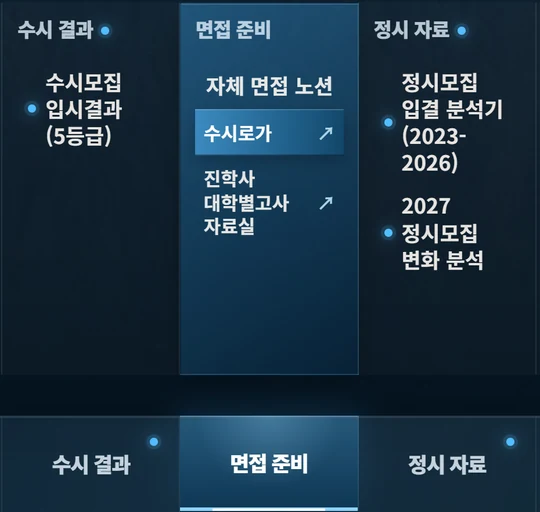
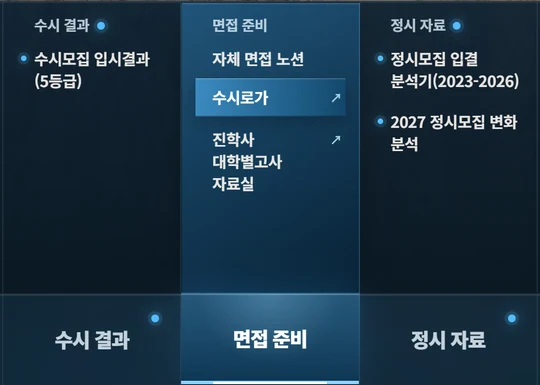
Align desktop submenu tracks and soften action button sheen

diff --git a/index.html b/index.html
@@ -30,7 +30,7 @@
   <meta name="twitter:title" content="진학 인사이트">
   <meta name="twitter:description" content="입시 정보와 진학 도구를 한곳에서 확인하세요.">
   <meta name="twitter:image" content="https://seiryu1318.github.io/Ergosphere_Ryan/og-preview-20260827-05.jpg">
-  <title>라이언의 대입 포털 ver.20261127 - 06</title>
+  <title>라이언의 대입 포털 ver.20261127 - 07</title>
   <script>
     const tabletViewKey = "ryan-portal-tablet-view";
     const manualViewKey = "ryan-portal-manual-view";
@@ -2830,16 +2830,15 @@
       transform: scaleX(1);
     }
     .category-mega {
-      --category-launcher-left: 0px;
-      --category-launcher-width: 100%;
       position: absolute;
       right: 0;
       bottom: 100%;
       left: 0;
       z-index: 1;
-      padding: clamp(22px, 3.1vh, 36px) 0 clamp(24px, 3.6vh, 42px);
+      padding: 0;
       max-height: calc(100svh - 100% - var(--tablet-header-height, 70px) - 4px);
-      overflow: auto;
+      overflow: hidden auto;
+      scrollbar-width: none;
       overscroll-behavior: contain;
       border-top: 1px solid rgba(255,255,255,.16);
       border-bottom: 1px solid rgba(255,255,255,.12);
@@ -2848,33 +2847,21 @@
       box-shadow: 0 -26px 68px rgba(0,0,0,.28), inset 0 1px rgba(255,255,255,.055);
       opacity: 0;
       visibility: hidden;
-      transform: translateY(28px);
-      transform-origin: bottom;
-      transition: opacity .26s ease, transform .38s cubic-bezier(.22,.8,.28,1), visibility 0s linear .38s;
+      transition: opacity .22s ease, visibility 0s linear .22s;
       pointer-events: none;
     }
     body.mode-pc .bottom-nav.is-mega-open .category-mega {
       opacity: 1;
       visibility: visible;
-      transform: none;
       transition-delay: 0s;
       pointer-events: auto;
     }
-    .category-mega-grid {
-      display: block;
-      width: 100%;
-      margin: 0;
-    }
-    .category-mega-spacer {
-      display: none;
-    }
+    .category-mega::-webkit-scrollbar { display: none; }
     .category-columns {
       display: grid;
       grid-template-columns: var(--category-tracks);
       gap: 0;
-      width: var(--category-launcher-width);
       min-width: 0;
-      margin-left: var(--category-launcher-left);
     }
     .category-column {
       min-width: 0;
@@ -2896,11 +2883,11 @@
       transform: none;
     }
     .category-column h2 {
-      min-height: 32px;
-      margin: 0 0 7px;
+      margin: 0 0 4px;
+      padding-inline: 15px 3px;
       color: rgba(255,247,237,.64);
-      font-size: clamp(13px, 1.02vw, 16px);
-      font-weight: 850;
+      font-size: 13px;
+      font-weight: 750;
       line-height: 1.35;
       letter-spacing: -.025em;
       word-break: keep-all;
@@ -2913,35 +2900,25 @@
       list-style: none;
     }
     body.mode-pc .bottom-nav .category-project-link {
-      display: flex;
-      align-items: center;
-      justify-content: flex-start;
-      gap: 0;
+      position: relative;
+      display: block;
       width: 100%;
       min-width: 0;
-      min-height: 36px;
-      padding: 6px 9px;
+      min-height: 34px;
+      padding: 7px 3px 7px 15px;
       border: 0;
       border-radius: 7px;
       color: rgba(255,250,244,.9);
       background: transparent;
       box-shadow: none;
-      font-size: clamp(12px, .88vw, 14px);
-      font-weight: 730;
-      line-height: 1.28;
+      font-family: inherit;
+      font-size: 14px;
+      font-weight: 700;
+      line-height: 1.45;
+      letter-spacing: -.02em;
       text-align: left;
       word-break: keep-all;
       transition: color .18s ease, background .18s ease, border-color .18s ease, box-shadow .18s ease, transform .18s ease;
-    }
-    body.mode-pc .bottom-nav .category-project-link.is-update {
-      display: block;
-    }
-    body.mode-pc .bottom-nav .category-project-link.is-update::before {
-      display: inline-block;
-      margin-right: 6px;
-      font-size: 7px;
-      opacity: .88;
-      vertical-align: .12em;
     }
     body.mode-pc .bottom-nav .category-project-link:hover,
     body.mode-pc .bottom-nav .category-project-link:focus-visible {
@@ -3348,10 +3325,6 @@
         grid-row: 2;
       }
       .category-trigger { min-height: 42px; }
-      .category-mega {
-        padding: 16px 0 18px;
-      }
-      .category-column h2 { min-height: 0; }
     }
     @media (max-width: 390px) {
       .mobile-menu-item.mobile-category-toggle {
@@ -3524,13 +3497,11 @@
       background: linear-gradient(145deg, rgba(48,126,181,.56), rgba(8,41,65,.62));
       box-shadow: inset 0 1px rgba(228,245,255,.16), 0 12px 30px rgba(0,0,0,.24);
     }
-    .category-column h2 { color: rgba(231,245,255,.78); font-size: clamp(14px, 1.05vw, 17px); }
+    .category-column h2 { color: rgba(231,245,255,.78); }
     body.mode-pc .bottom-nav .category-project-link {
-      min-height: 40px;
       border-radius: 0;
-      font-size: clamp(15px, 1.08vw, 18px);
       white-space: normal;
-      overflow-wrap: anywhere;
+      overflow-wrap: break-word;
     }
     body.mode-pc .bottom-nav .category-project-link:hover,
     body.mode-pc .bottom-nav .category-project-link:focus-visible {
@@ -3559,7 +3530,15 @@
       right: 12%;
       margin: 0;
     }
-    body.mode-pc .bottom-nav .category-project-link.has-work-change::before { flex: 0 0 auto; margin: 0 8px 0 0; }
+    body.mode-pc .bottom-nav .category-project-link.has-work-change::before {
+      position: absolute;
+      inset-inline-start: 3px;
+      top: calc(7px + .725em);
+      width: 5px;
+      height: 5px;
+      margin: 0;
+      transform: translateY(-50%);
+    }
     .category-trigger.is-update::before,
     body.mode-pc .bottom-nav .category-project-link.is-update::before { content: none; }
 
@@ -3993,6 +3972,7 @@
         --help-track: minmax(144px, .92fr);
         --hub-track: clamp(178px, 13vw, 248px);
       }
+      body.mode-pc .bottom-nav :is(.category-launcher, .category-mega) { grid-column: 3 / 4; }
     }
     @media (min-width:761px) and (max-width:1750px) {
       body.mode-pc .bottom-nav {
@@ -4007,7 +3987,7 @@
       body.mode-pc .bottom-nav [data-qa="ai-hub"] { grid-area: hub; }
       body.mode-pc .bottom-nav .category-launcher { grid-area: groups; }
       body.mode-pc .bottom-nav #scrollControl { grid-area: history; }
-      body.mode-pc .bottom-nav .category-mega { padding-bottom: 10px; }
+      body.mode-pc .bottom-nav .category-mega { grid-column: groups-start / groups-end; }
     }
     @media (max-width:1080px) {
       body.mode-pc .bottom-nav { --category-tracks: repeat(4, minmax(0, 1fr)); }
@@ -4018,12 +3998,19 @@
       .category-trigger.has-work-change::before { top: 4px; }
     }
     body.mode-pc .bottom-nav .category-reference-link {
-      justify-content: space-between;
-      gap: 6px;
-      padding-inline: 7px;
-      font-size: clamp(14px, .93vw, 16px);
+      padding-inline-end: 16px;
     }
-    .category-reference-link > span[aria-hidden] { color: #abd4e7; }
+    @media (min-width: 640px) {
+      .category-link-year { white-space: nowrap; }
+    }
+    .category-reference-link > span[aria-hidden] {
+      position: absolute;
+      inset-inline-end: 3px;
+      top: 7px;
+      color: #abd4e7;
+      font-size: 11px;
+      line-height: 20px;
+    }
     .tablet-device body.mode-pc .bottom-nav {
       padding-bottom: env(safe-area-inset-bottom, 0px);
     }
@@ -4032,7 +4019,6 @@
       .tablet-device body.mode-pc .bottom-nav :is(.nav-fixed, .category-trigger, .scroll-control) { min-height: 46px; }
     }
     @media (max-width: 1024px) {
-      .tablet-device body.mode-pc .category-mega { padding: 8px 0; }
       .tablet-device body.mode-pc .category-columns { grid-template-columns: minmax(0, 1fr); }
       .tablet-device body.mode-pc .category-column.is-active { grid-column: 1 / -1; }
       .tablet-device body.mode-pc .category-column:not(.is-active) { display: none; }
@@ -4152,15 +4138,16 @@
         z-index: -1;
         inset: 0 auto 0 0;
         width: 75%;
-        background: linear-gradient(106deg, transparent 4%, #a2dfef38 28%, #e3f7ff7a 44%, #fff8dc9c 51%, #dcf7ff70 59%, #a2dfef32 74%, transparent 96%);
+        background: linear-gradient(109deg, transparent 6%, #ccefff10 27%, #dff6ff50 49%, #dff6ff2a 63%, #ccefff0c 78%, transparent 94%);
         animation: action-sheen 2.6s ease-in-out infinite;
         animation-delay: var(--sheen-delay, 0s);
       }
       #viewToggle { --sheen-delay: -.32s; }
       .help-launch { --sheen-delay: -.65s; }
       @keyframes action-sheen {
-        0% { transform: translateX(-105%); }
-        60%, 100% { transform: translateX(140%); }
+        0% { opacity: 0; transform: translateX(-105%); }
+        22%, 38% { opacity: .85; }
+        60%, 100% { opacity: 0; transform: translateX(140%); }
       }
     }
     html.mode-mobile-root, body.mode-mobile { overscroll-behavior-y: none; }
@@ -4223,7 +4210,7 @@
[1 lines of base64/hex data omitted]
         <span class="brand-copy">
           <strong>라이언의 대입 포털</strong>
-          <span>ver.20261127 - 06</span>
+          <span>ver.20261127 - 07</span>
         </span>
       </a>
       <div class="header-actions">
@@ -4332,9 +4319,7 @@
           <button class="category-trigger" type="button" data-category="references" data-qa="desktop-category-trigger" aria-expanded="false" aria-controls="desktopCategoryMega">참고 사이트</button>
         </div>
         <section class="category-mega" id="desktopCategoryMega" aria-hidden="true" inert data-qa="desktop-category-popover">
-          <div class="category-mega-grid">
-            <div class="category-mega-spacer" aria-hidden="true"></div>
-            <div class="category-columns">
+          <div class="category-columns">
             <section class="category-column" data-category-column="common">
               <h2>입시 도구</h2>
               <ul>
@@ -4373,7 +4358,7 @@
             <section class="category-column" data-category-column="regular">
               <h2>정시 자료</h2>
               <ul>
-                <li><a class="category-project-link" href="https://seiryu1318.github.io/Regular_Ryan/" target="_blank" rel="noopener noreferrer" data-project="regular" data-qa="desktop-project-link">정시모집 입결 분석기(2023-2026)</a></li>
+                <li><a class="category-project-link" href="https://seiryu1318.github.io/Regular_Ryan/" target="_blank" rel="noopener noreferrer" data-project="regular" data-qa="desktop-project-link">정시모집 입결 분석기<wbr><span class="category-link-year">(2023-2026)</span></a></li>
                 <li><a class="category-project-link" href="https://seiryu1318.github.io/Regular_A_Ryan/" target="_blank" rel="noopener noreferrer" data-project="regular-a" data-qa="desktop-project-link">2027 정시모집 변화 분석</a></li>
               </ul>
             </section>
@@ -4400,8 +4385,6 @@
                 <li><a class="category-project-link category-reference-link" href="https://www.career.go.kr/cloud/w/major/uList" target="_blank" rel="noopener noreferrer">커리어넷 학과정보<span aria-hidden="true">↗</span></a></li>
               </ul>
             </section>
-            </div>
-            <div class="category-mega-spacer" aria-hidden="true"></div>
           </div>
         </section>
         <button class="scroll-control" id="scrollControl" type="button" aria-label="업데이트 내역으로 이동" aria-pressed="false" data-qa="roadmap-link">
@@ -4634,7 +4617,7 @@
             </li>
             <li>
               <p>펼쳐진 메뉴에서 <strong>자료 이름을 클릭</strong>하면 새 탭에서 열립니다.</p>
-              <img class="guide-shot" src="./assets/step-find-pc-2.webp?v=20261127-06" width="540" height="512" loading="lazy" decoding="async" alt="PC 면접 준비 메뉴를 펼치고 수시로가 링크를 가리킨 화면">
+              <img class="guide-shot" src="./assets/step-find-pc-2.webp?v=20261127-07" width="540" height="385" loading="lazy" decoding="async" alt="PC 면접 준비 버튼 바로 위에 펼친 목록과 수시로가 링크">
             </li>
             <li>
               <p>오른쪽 아래 <strong>업데이트 내역</strong>을 누르면 어떤 자료가 언제 바뀌었는지 볼 수 있습니다.</p>
@@ -4747,7 +4730,7 @@
 
       if ("serviceWorker" in navigator && supportsPwaInstall) {
         window.addEventListener("load", () => {
-          navigator.serviceWorker.register("./service-worker.js?v=20261127-06", {
+          navigator.serviceWorker.register("./service-worker.js?v=20261127-07", {
             scope: "./",
             updateViaCache: "none"
           }).then((registration) => registration.update()).catch(() => {});
@@ -5242,24 +5225,6 @@
       const categoryLauncher = categoryDock?.querySelector(".category-launcher");
       const categoryTriggers = [...document.querySelectorAll(".category-trigger")];
       const categoryColumns = [...document.querySelectorAll("[data-category-column]")];
-      let categoryAlignmentFrame = 0;
-
-      function syncDesktopCategoryAlignment() {
-        categoryAlignmentFrame = 0;
-        if (!categoryMega || !categoryLauncher) return;
-        const megaRect = categoryMega.getBoundingClientRect();
-        const launcherRect = categoryLauncher.getBoundingClientRect();
-        const dockRect = categoryDock.getBoundingClientRect();
-        const scaleX = categoryDock.offsetWidth ? dockRect.width / categoryDock.offsetWidth : 1;
-        if (!megaRect.width || !launcherRect.width || !scaleX) return;
-        categoryMega.style.setProperty("--category-launcher-left", ((launcherRect.left - megaRect.left) / scaleX).toFixed(3) + "px");
-        categoryMega.style.setProperty("--category-launcher-width", (launcherRect.width / scaleX).toFixed(3) + "px");
-      }
-
-      function queueDesktopCategoryAlignment() {
-        window.cancelAnimationFrame(categoryAlignmentFrame);
-        categoryAlignmentFrame = window.requestAnimationFrame(syncDesktopCategoryAlignment);
-      }
 
       function setActiveCategory(category) {
         categoryColumns.forEach((column) => {
@@ -5269,8 +5234,7 @@
 
       function setMegaOpen(open, trigger = activeCategoryTrigger) {
         if (!categoryDock || !categoryMega) return;
-        if (open) queueDesktopCategoryAlignment();
-        else pinnedCategoryTrigger = null;
+        if (!open) pinnedCategoryTrigger = null;
         activeCategoryTrigger = trigger || activeCategoryTrigger;
         categoryDock.classList.toggle("is-mega-open", open);
         categoryMega.setAttribute("aria-hidden", open ? "false" : "true");
@@ -5295,7 +5259,7 @@
       function focusFirstCategoryProject(trigger) {
         const firstLink = getCategoryProjectLinks(trigger?.dataset.category)[0];
         if (!firstLink) return;
-        window.requestAnimationFrame(() => firstLink.focus({ preventScroll: true }));
+        window.requestAnimationFrame(() => firstLink.focus());
       }
 
       categoryTriggers.forEach((trigger) => {
@@ -5346,7 +5310,7 @@
             : event.key === "End"
               ? links.length - 1
               : (currentIndex + (event.key === "ArrowDown" ? 1 : -1) + links.length) % links.length;
-          links[nextIndex]?.focus({ preventScroll: true });
+          links[nextIndex]?.focus();
           return;
         }
 
@@ -5375,7 +5339,6 @@
       });
       toggle.addEventListener("click", () => {
         setMegaOpen(false);
-        queueDesktopCategoryAlignment();
       });
       categoryDock?.addEventListener("focusout", () => {
         window.setTimeout(() => {
@@ -5394,15 +5357,6 @@
         returnTrigger?.focus({ preventScroll: true });
         setMegaOpen(false, returnTrigger);
       });
-
-      queueDesktopCategoryAlignment();
-      window.addEventListener("resize", queueDesktopCategoryAlignment, { passive: true });
-      document.fonts?.ready.then(queueDesktopCategoryAlignment).catch(() => {});
-      if ("ResizeObserver" in window && categoryDock && categoryLauncher) {
-        const categoryAlignmentObserver = new ResizeObserver(queueDesktopCategoryAlignment);
-        categoryAlignmentObserver.observe(categoryDock);
-        categoryAlignmentObserver.observe(categoryLauncher);
-      }
 
       document.querySelectorAll(".mobile-menu-category").forEach((details) => {
         const summary = details.querySelector("summary");
@@ -5641,6 +5595,6 @@
       syncScrollControl();
     })();
   </script>
-  <script src="./project-dots.js?v=20261127-06" defer></script>
+  <script src="./project-dots.js?v=20261127-07" defer></script>
 </body>
 </html>

diff --git a/service-worker.js b/service-worker.js
@@ -1,10 +1,10 @@
 const CACHE_PREFIX = "ryan-admission-portal-";
-const CACHE_NAME = "ryan-admission-portal-20261127-06";
+const CACHE_NAME = "ryan-admission-portal-20261127-07";
 const SCOPE_URL = new URL(self.registration.scope);
 const INDEX_URL = new URL("./index.html", SCOPE_URL);
 const APP_SHELL = [
   "./index.html",
-  "./project-dots.js?v=20261127-06",
+  "./project-dots.js?v=20261127-07",
   "./project-updates.json",
   "./manifest.webmanifest",
   "./og-preview-20260827-05.jpg",
